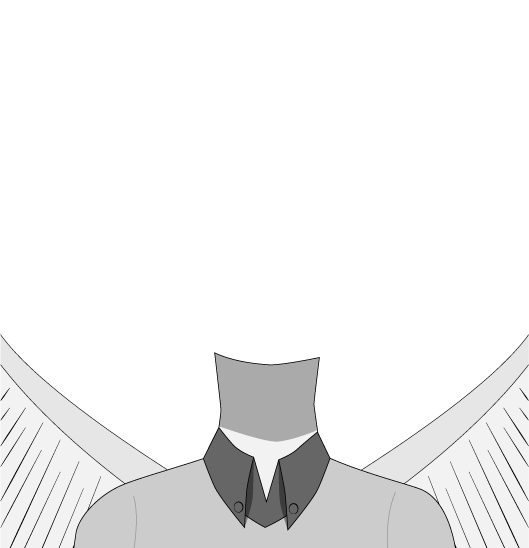
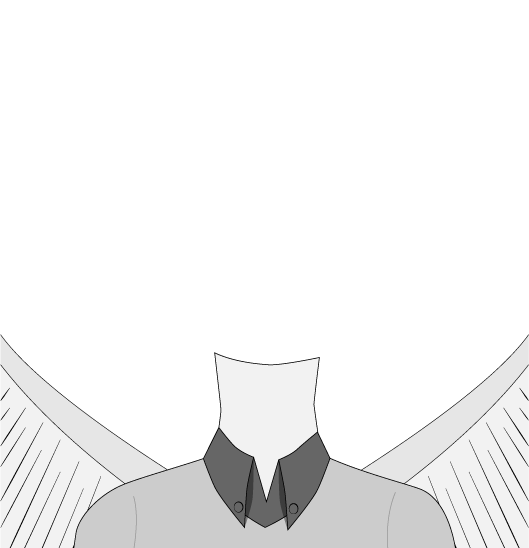
тень от головы двигается вместе с головой

Changed region(s): [[0.3932, 0.6515, 0.6049, 0.8066]]

diff --git a/animator.py b/animator.py
@@ -105,6 +105,11 @@ class Animator:
 
         self.res = utils.blend_transparent(self.res, self.imgs.get_img("background"))
 
+        shadow = cv.warpAffine(self.imgs.get_img("head_shadow"), rot, self.imgs.warp_shape(), flags=cv.INTER_LINEAR,
+                               borderMode=bmode)
+        shadow = cv.bitwise_and(self.imgs.get_img("background"), shadow)
+        self.res = utils.blend_transparent(self.res, shadow)
+
         face = self.imgs.get_img("head")
         face = utils.blend_transparent(face, self.imgs.get_img("mouth_" + str(mouth_shape)))  # голова + рот
         brows = cv.bitwise_or(r_brow, l_brow)
